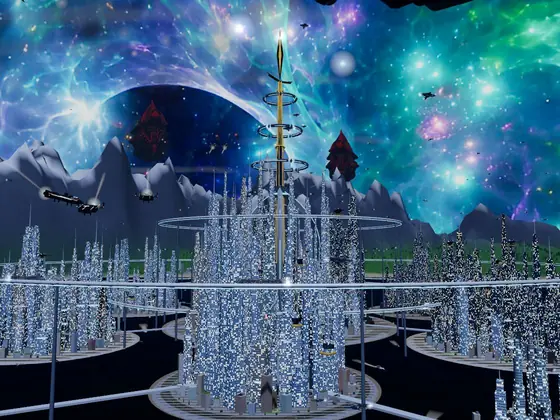
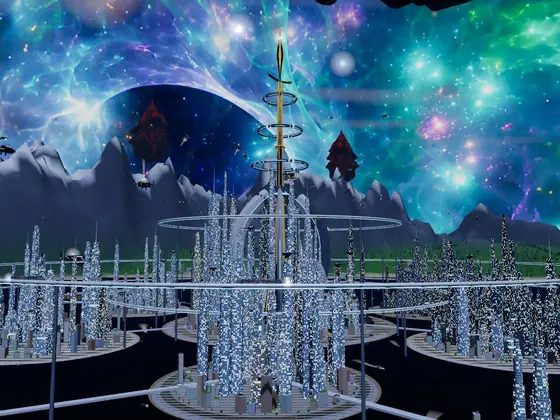
First Word cover re-rendered from the half-congested Tide City
Claude-Session: https://claude.ai/code/session_011EBjg4xNFnKuRCDJ9SxQsx

diff --git a/index.html b/index.html
@@ -386,7 +386,7 @@ body[data-msize="half"]{--ms:.92}@media (orientation:landscape) and (max-height:
 const still=matchMedia('(prefers-reduced-motion: reduce)').matches;
 const touch=matchMedia('(pointer: coarse)').matches;
 /* ---------- what you can play (same rules as the archive menu, classic.html): the six levels in campaign order ---------- */
-const PARTS_OF={last:[['origin','The Mountain','img/archive-01.webp',['origin']],['signal','The Last Signal','img/archive-signal.webp',['signal']],['tidestreets','The First Word','img/first-word.webp',['tidestreets','astraea','tide']]],
+const PARTS_OF={last:[['origin','The Mountain','img/archive-01.webp',['origin']],['signal','The Last Signal','img/archive-signal.webp',['signal']],['tidestreets','The First Word','img/first-word.webp?v=2',['tidestreets','astraea','tide']]],
   pf:[['pathfinder','Site K','img/pathfinder.webp',['pathfinder']],['pathfinder2','Dead Ground','img/pathfinder-02.webp',['pathfinder2']],['pathfinder3','The White City','img/pathfinder-03.webp',['pathfinder3']]]};
 const MISSION={pf:{title:'Pathfinder',line:'Captain Rhen. Forty-one crew. A Host installation on a dead moon, and one object, taken days ago. Get in. Find it. Get out.'},
   last:{title:'Last Transmission',line:'The Codex is gone. The Pathfinder is silent. Something beneath the mountain is still transmitting.'}};

diff --git a/classic.html b/classic.html
@@ -350,7 +350,7 @@ const still=matchMedia('(prefers-reduced-motion: reduce)').matches;
      The centre shows just that level. (Later: each level splits into three parts, picked from here.) ---------- */
 /* a level is [its first chapter, name, card, every chapter in it]: The First Word is played as three chained parts
    (Tide City's streets, The Heralds over Astraea, the sky over Tide City), so a save in any of them is that level */
-const PARTS_OF={last:[['origin','The Mountain','img/archive-01.webp',['origin']],['signal','The Last Signal','img/archive-signal.webp',['signal']],['tidestreets','The First Word','img/first-word.webp',['tidestreets','astraea','tide']]],
+const PARTS_OF={last:[['origin','The Mountain','img/archive-01.webp',['origin']],['signal','The Last Signal','img/archive-signal.webp',['signal']],['tidestreets','The First Word','img/first-word.webp?v=2',['tidestreets','astraea','tide']]],
   pf:[['pathfinder','Site K','img/pathfinder.webp',['pathfinder']],['pathfinder2','Dead Ground','img/pathfinder-02.webp',['pathfinder2']],['pathfinder3','The White City','img/pathfinder-03.webp',['pathfinder3']]]};
 const AR=[
   {id:'pf',camp:'pf',k:9,title:'PATHFINDER',name:'PATHFINDER<br>LOST EXPEDITION',file:'PATHFINDER // THE LOST EXPEDITION',
